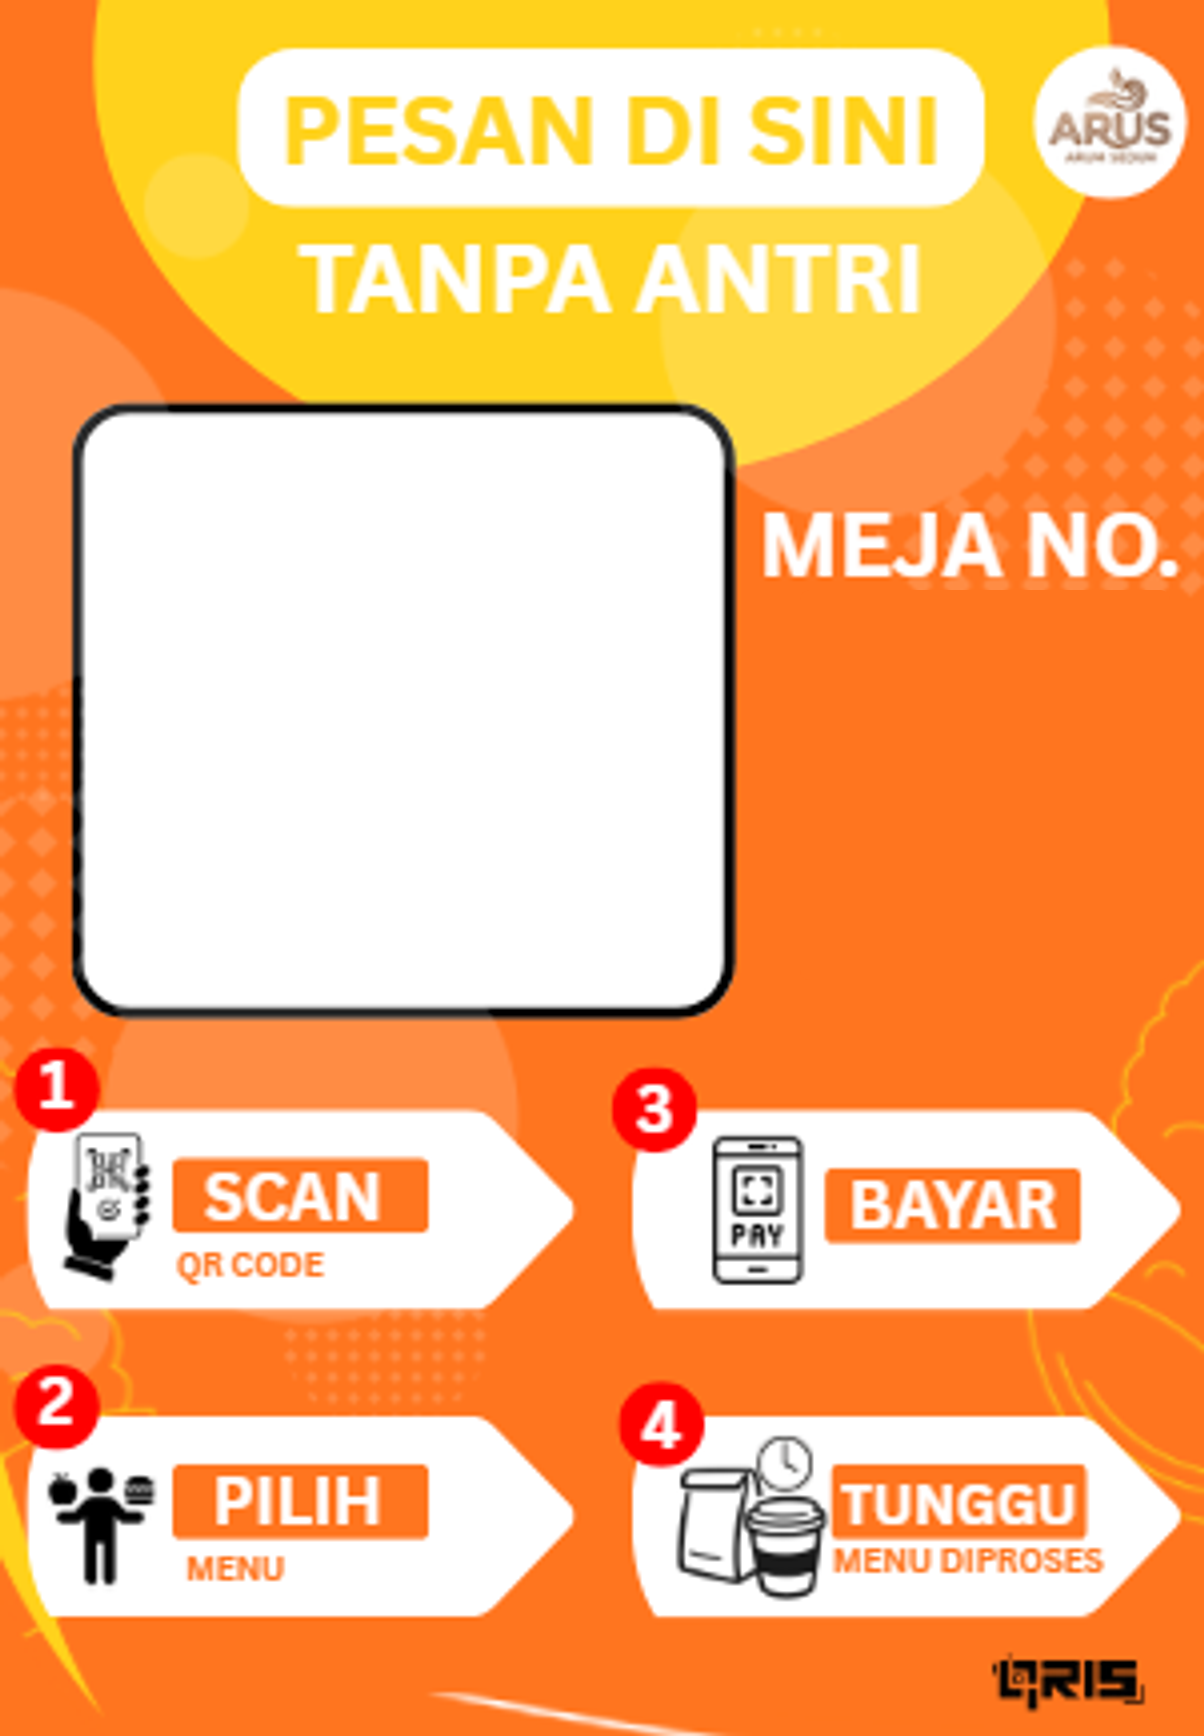
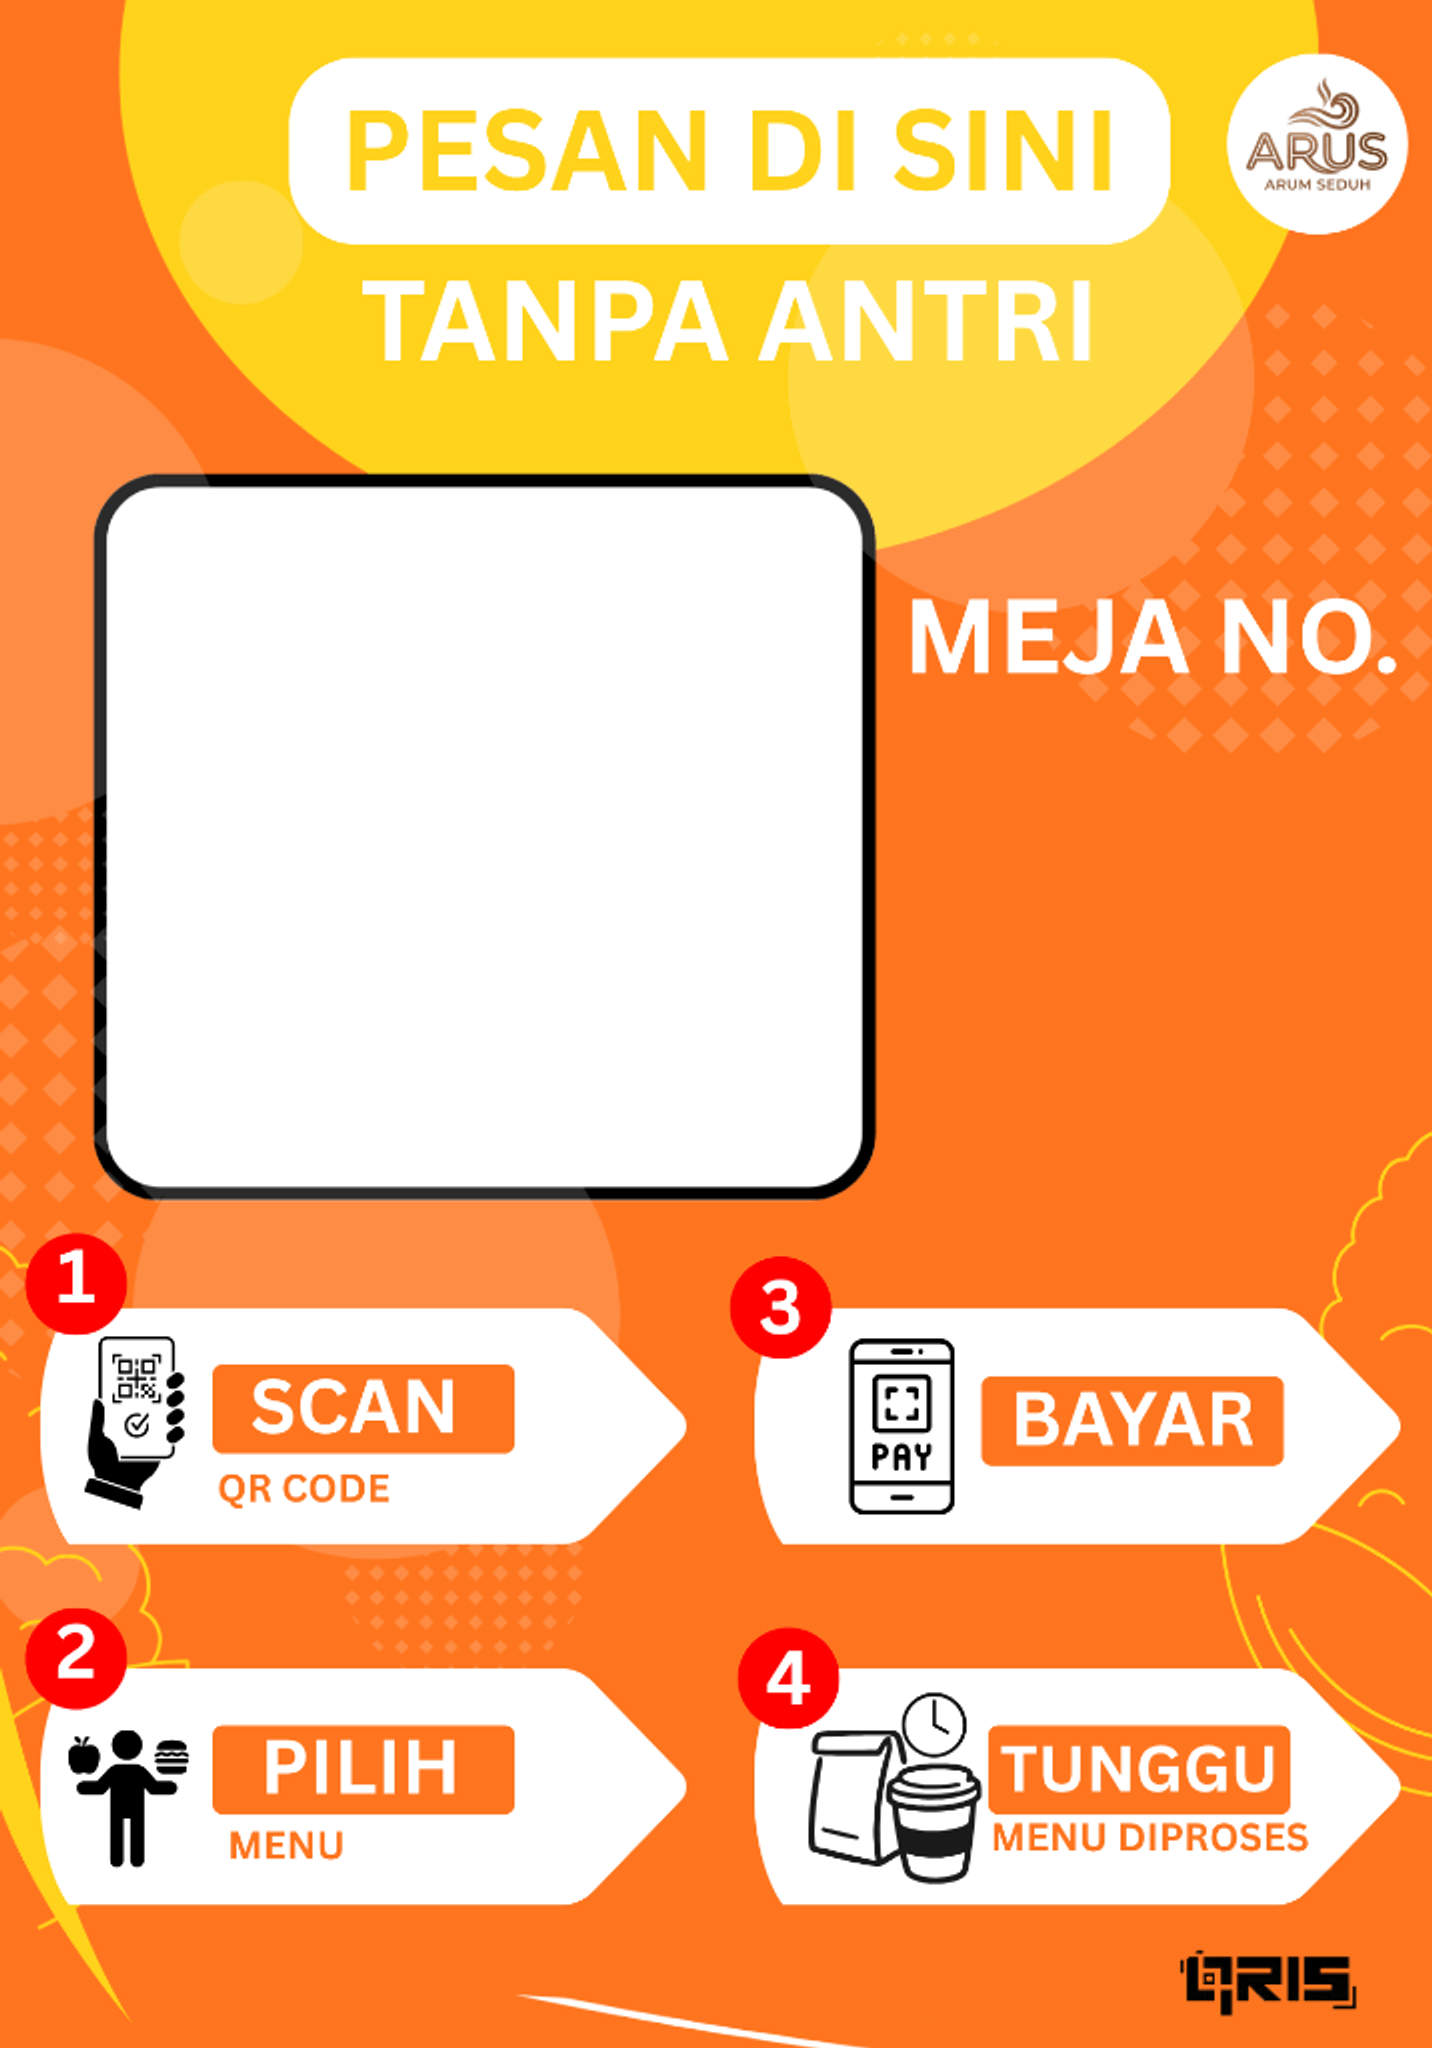
feat(tables): update master table card template with crystal-clear high-res blank asset and calibrated coordinates

diff --git a/src/app/(admin)/admin/tables/TableQrCardModal.tsx b/src/app/(admin)/admin/tables/TableQrCardModal.tsx
@@ -34,17 +34,17 @@ export interface CardLayoutSettings {
 }
 
 const DEFAULT_SETTINGS: CardLayoutSettings = {
-  qrX: 11.2,          // ~135px in 1204px width (perfect horizontal fit in white box)
-  qrY: 26.2,          // ~455px in 1736px height (perfect vertical fit in white box)
-  qrSize: 43.5,       // ~524px in 1204px width (leaves comfortable white padding inside black rounded frame)
+  qrX: 11.0,          // Perfectly centered in white QR box
+  qrY: 26.5,          // Perfectly centered in white QR box
+  qrSize: 43.0,       // Generates clean white border within black rounded boundary
   
-  numX: 79.6,         // Centered under "MEJA NO." (~958px in 1204px width)
-  numY: 45.2,         // Centered in number slot (~785px in 1736px height)
+  numX: 80.4,         // Centered under "MEJA NO."
+  numY: 45.5,         // Centered in orange number slot
   numFontSize: 260,    // Large, bold number
   numColor: '#FFFFFF',
 };
 
-const STORAGE_KEY = 'arum_table_card_layout_settings_v4';
+const STORAGE_KEY = 'arum_table_card_layout_settings_v5';
 const DEFAULT_TEMPLATE_SRC = '/brand/table-qr-template-blank.png';
 
 interface TableQrCardModalProps {
